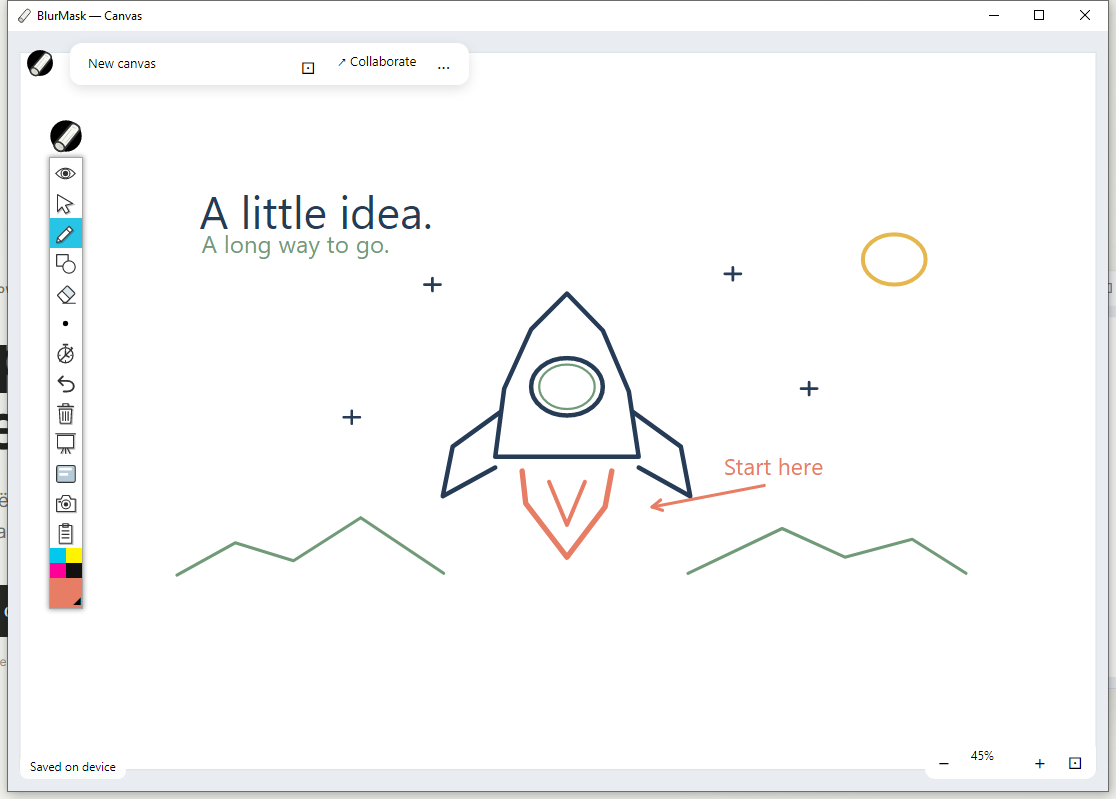
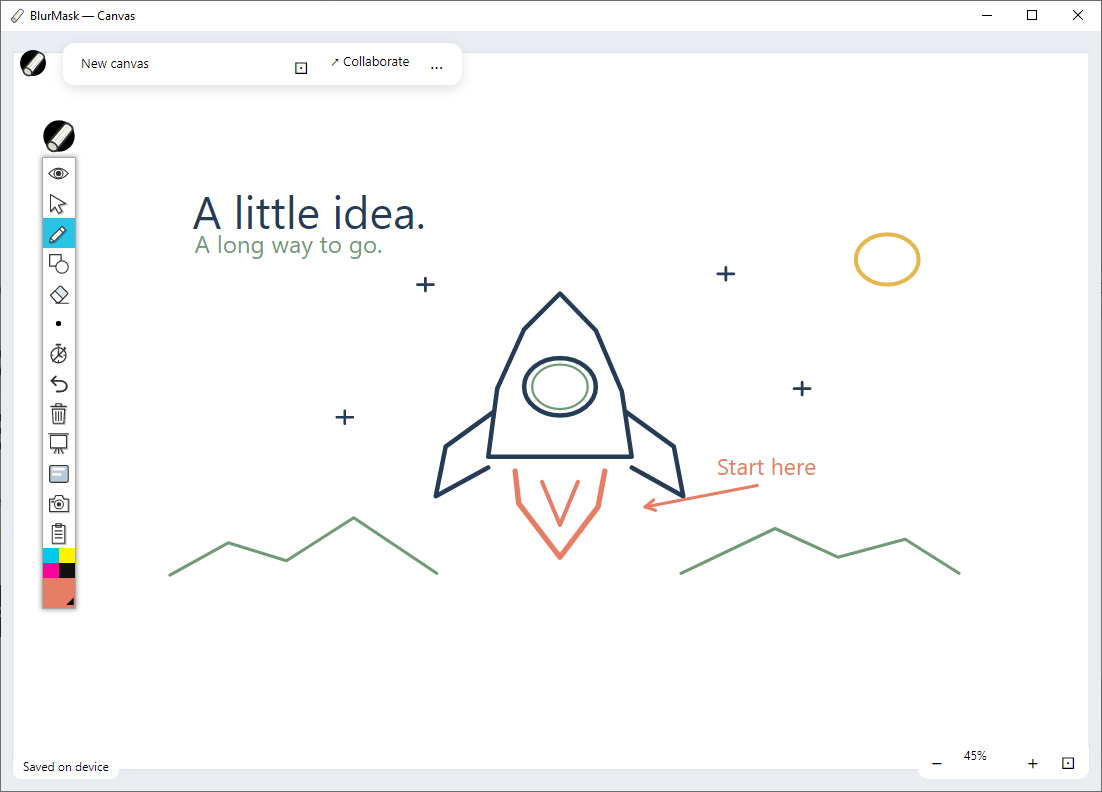
Capture the visible app frame and record compact-protocol load results

diff --git a/server/wwwroot/index.html b/server/wwwroot/index.html
@@ -32,7 +32,7 @@
         <button id="copy-invite" type="button" data-text="copy">Copy invitation</button>
       </section>
       </div>
-      <div class="app-preview" aria-hidden="true"><img src="/app-preview.png" width="1116" height="799" alt="" fetchpriority="high"></div>
+      <div class="app-preview" aria-hidden="true"><img src="/app-preview.png" width="1102" height="792" alt="" fetchpriority="high"></div>
     </main>
     <footer><span>BlurMask</span><a href="https://github.com/Xekep/BlurMask/blob/main/LICENSE" rel="noopener noreferrer">MIT License</a></footer>
   </div>

diff --git a/WebsitePreview.cs b/WebsitePreview.cs
@@ -1,12 +1,13 @@
 using Avalonia;
 using Avalonia.Media;
 using Avalonia.Media.Imaging;
+using System.Runtime.InteropServices;
 
 namespace BlurMask;
 
 // Reproducible screenshot of the real app, with a small sketch drawn using its ink tools.
 // Run --website-preview --software-rendering with BLURMASK_SITE_PREVIEW pointing to a PNG.
-internal static class WebsitePreview
+internal static partial class WebsitePreview
 {
     internal static async Task SaveAsync(DrawingSession session)
     {
@@ -58,7 +59,11 @@ internal static class WebsitePreview
         if (OperatingSystem.IsWindows())
         {
             using var catalog = new WindowsWindowCatalog();
-            var bounds = catalog.Read((nuint)window.TryGetPlatformHandle()!.Handle)!.Bounds;
+            var handle = window.TryGetPlatformHandle()!.Handle;
+            var bounds = catalog.Read((nuint)handle)!.Bounds;
+            // GetWindowRect includes invisible resize borders: capture only the visible frame.
+            if (DwmGetWindowAttribute(handle, 9, out var frame, 16) == 0)
+                bounds = new PixelRect(frame.Left, frame.Top, frame.Right - frame.Left, frame.Bottom - frame.Top);
             DesktopInkNative.SaveScreenshot(path, bounds);
         }
         else
@@ -68,4 +73,6 @@ internal static class WebsitePreview
         }
         session.Toolbar.Position = original;
     }
+    [StructLayout(LayoutKind.Sequential)] private struct FrameRect { public int Left, Top, Right, Bottom; }
+    [LibraryImport("dwmapi.dll")] private static partial int DwmGetWindowAttribute(nint window, uint attribute, out FrameRect rect, uint size);
 }

diff --git a/docs/performance.md b/docs/performance.md
@@ -4,6 +4,8 @@
 
 Desktop probes measure CPU time and managed allocations on a single thread, not GPU frame time, process RSS or network latency. Each probe warms up, forces GC and then runs the reported iteration count. No timing thresholds run in CI: shared runners cannot produce stable performance comparisons.
 
+Isolated desktop smoke tests suppress the OS tray icon/taskbar entry and do not register global hotkeys; synthetic hotkey messages address only the app's own HWND. Full desktop/mask smoke tests run on CI runners. After an Explorer crash on the development desktop, further local full UI stress runs were stopped. Windows recorded `explorer.exe` / `twinui.pcshell.dll` / `0xc0000005`; that identifies the faulting module, not a proven root cause or a verified fix for Explorer.
+
 ```powershell
 dotnet build -c Release -p:PublishAot=false
 dotnet bin/Release/net11.0/BlurMask.dll --performance-test
@@ -54,6 +56,8 @@ For an external fan-out probe, `PEN_LOAD_ACCESS_FILE` can reference a private JS
 
 Local 16-client / four-board run: eight simultaneous writers, 960 preview packets, all 2,880 expected deliveries; p95 1.22 ms, p99 1.42 ms, 16 successful saves and four HTTP 304s. This is a loopback integration measurement, not an Internet latency promise.
 
+The v2 repeat delivered the same 2,880 previews without errors at 19.94 frames/s per writer (p95 1.38 ms, p99 1.79 ms), with all 16 saves and four 304s. The website image is a real screenshot: `--website-preview --software-rendering`, with `BLURMASK_SITE_PREVIEW` naming the output PNG, draws a reproducible rocket sketch using the app's actual ink objects and captures its window and floating toolbar.
+
 The production host has three vCPUs and about 3.3 GiB RAM; the application service is constrained to 150% CPU and 768 MiB memory. Load generation also consumes resources on that host for loopback TLS tests. Results from 2026-10-10 UTC:
 
 | Route | Boards / connections / writers | Deliveries | Preview p95 / p99 | Result |
@@ -62,9 +66,13 @@ The production host has three vCPUs and about 3.3 GiB RAM; the application servi
 | Server TLS proxy, loopback generator | 20 / 200 / 40 | 86,400 | 78 / 108 ms | All delivered; 160 saves, 20 conditional 304s |
 | Server TLS proxy after nginx tuning | 200 / 2,000 / 200 | 1,080,000 | 555 / 683 ms | All delivered; 2,000 saves, 200 conditional 304s |
 | External HTTPS, before binary protocol | 4 / 512 / 16 | 553,332 / 609,600 | 14.74 s / — | Failed: slow recipients disconnected; 336 MiB received |
+| External HTTPS, required v2 protocol | 4 / 512 / 16 | 609,600 | 369 / 713 ms | All delivered at 20 Hz; 80 saves, 4 conditional 304s |
+| Server TLS proxy, required v2 protocol | 200 / 2,000 / 200 | 1,080,000 | 544 / 651 ms | All delivered; 2,000 saves, 200 conditional 304s; actual 4.84 Hz |
 
 No unexpected disconnects, cross-board ink, point-order errors, OOMs or application restarts occurred in these successful runs. The 2,000-connection run targeted 20 frames/s per writer but took 117.07 seconds for 600 frames per writer: **only 5.13 frames/s were actually generated**. It demonstrates connection admission and delivery integrity under this workload; it does not demonstrate 200 writers at 20 Hz or smooth drawing at that scale. Its generator shared the production host's three CPUs, so the result mixes generator/proxy/application costs. Health latency remained below 457 ms. The service cgroup's kernel-recorded memory peak was 242.82 MiB; this includes its charged file/socket memory, not just managed allocations.
 
 The expected aggregate traffic and active-writer count must accompany any capacity claim. Thousands of idle connections, hundreds of active writers, and thousands of users drawing on one board are separate cases. A sustained high-write workload additionally needs stronger CPU resources and, for multiple server processes, an event broker and board routing. The PostgreSQL row/JSONB snapshot write and full HTTP snapshot acknowledgement remain candidates for the next storage/protocol redesign.
+
+The v2 external repeat kept all 512 connections (128 per board), delivered every expected preview and saved every completed stroke at 20 frames/s. Received bytes fell from 352,249,054 in the failed JSON test to 162,438,773 (about 155 MiB), including HTTP bodies and WebSocket framing but excluding HTTP/TLS headers. Its p99 was 713 ms, maximum 2.26 s; this is a short 15-second drawing phase, not a latency guarantee or long-duration soak. The v2 2,000-connection repeat reduced received bytes from 863,401,600 to 434,656,275 but still achieved only 4.84 Hz with its generator on the same host. No errors/restarts/OOMs occurred; the service's cgroup kernel peak after that repeat was 250.64 MiB. Reducing traffic alone did not establish the requested 20 Hz capacity for 200 simultaneous authors.
 
 The first large admission probe stopped at 993 established sockets because nginx logged `2048 worker_connections are not enough`. Each proxied socket needs a client and upstream connection; this is a per-worker limit, not an application failure. The host setting was raised to 16,384 per worker, keeping the existing 65,535 file-descriptor limit; `nginx -t` passed before reload. The site's connection limits are 4,224 total / 1,088 per address, leaving HTTP headroom above the application limits. These host settings live in the deployment configuration, outside this repository.
